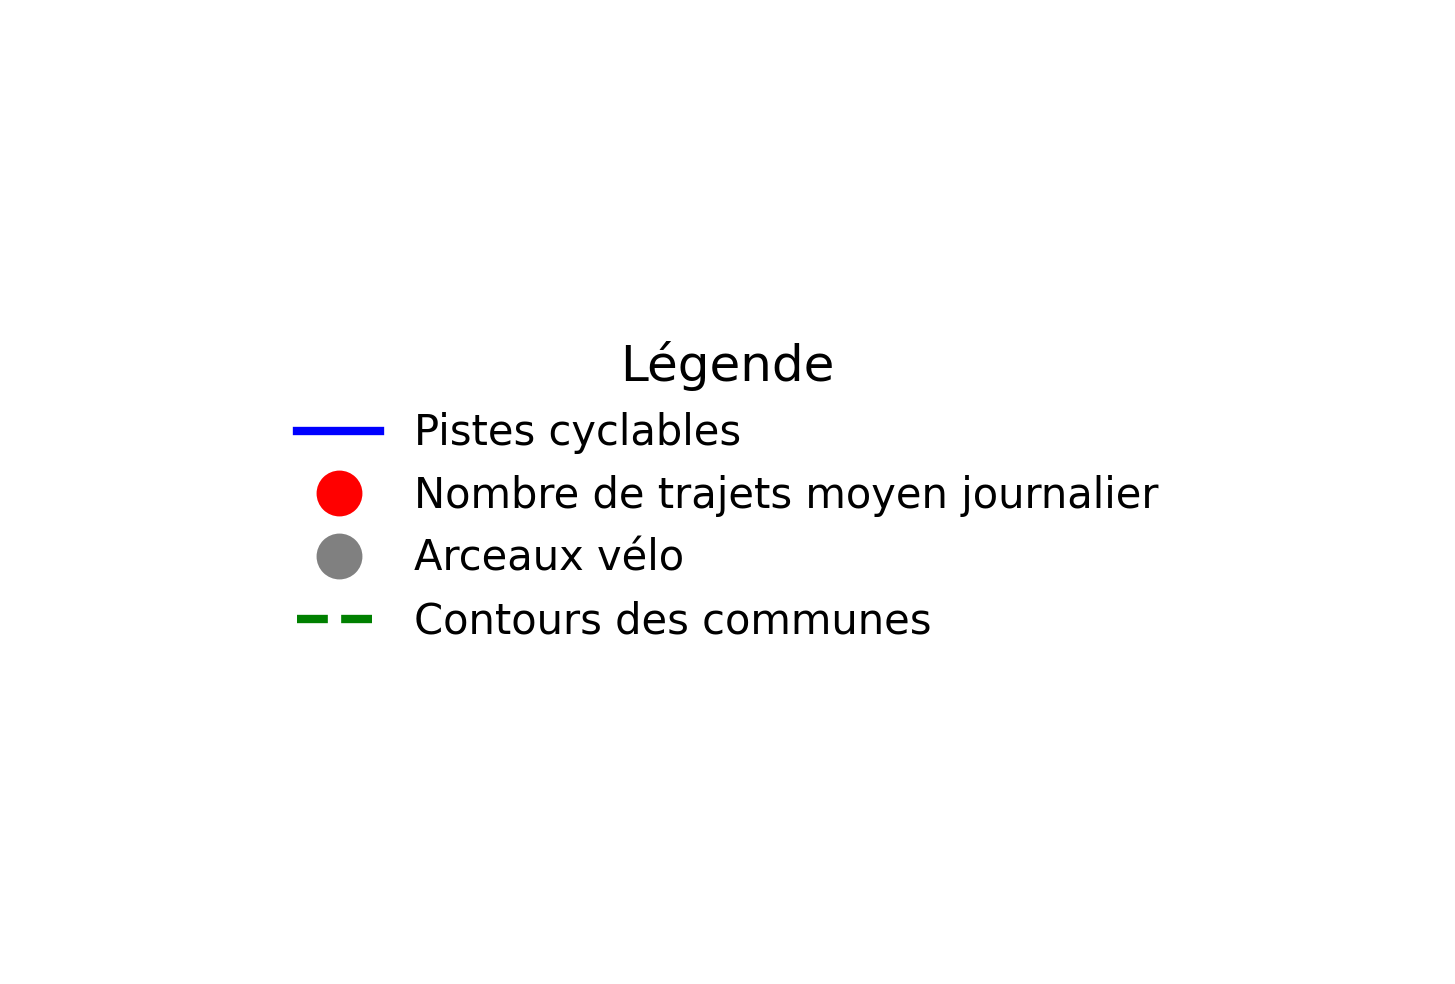
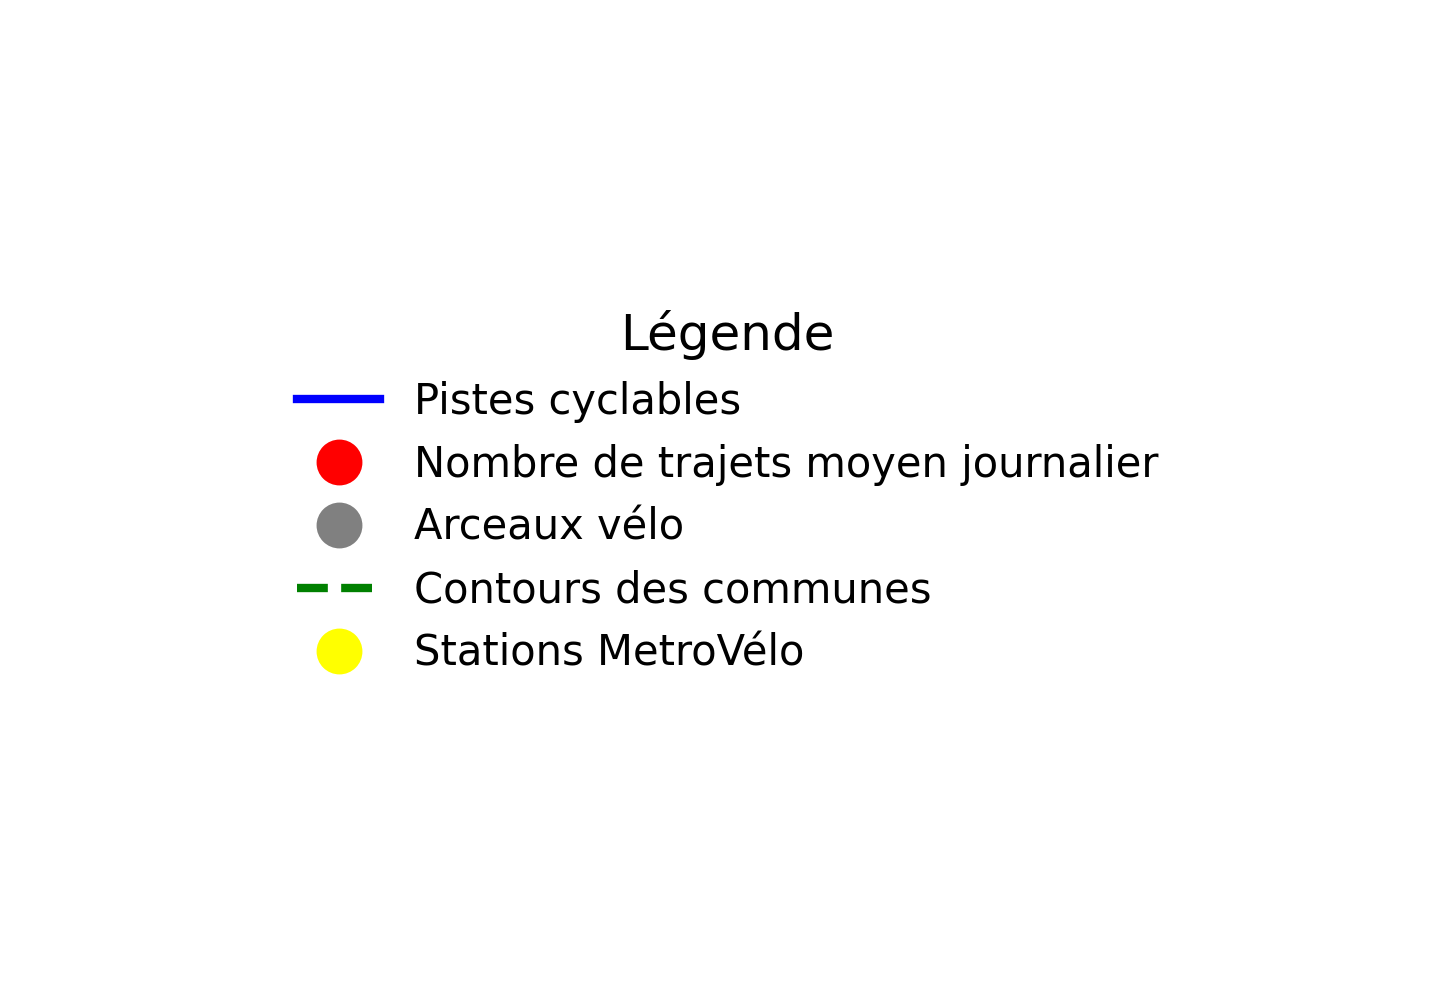
ajout legend page 2 plus épuration page 3

Changed region(s): [[0.1856, 0.3049, 0.8041, 0.7012]]

diff --git a/pages/03_Étude de cas temporelle sur l'INP.py b/pages/03_Étude de cas temporelle sur l'INP.py
@@ -1,5 +1,8 @@
 import streamlit as st 
-
+import seaborn as sns
+import matplotlib.pyplot as plt
+import pandas as pd
+import numpy as np
 
 ### Configuration de la page 
 st.set_page_config(page_title = "Étude de cas temporelle sur l'INP",layout="wide")
@@ -7,16 +10,13 @@ st.set_page_config(page_title = "Étude de cas temporelle sur l'INP",layout="wid
 st.title("Etude de cas temporelle sur l'INP")
 st.write("Cette page présente une analyse des données de l'INP, groupe d'écoles de l'Université Grenoble Alpes.")
     
-st.write("Les visualisations s'appuient sur une enquête intitulée 'Challenge mobilité' ")
+st.write("Les visualisations s'appuient sur une enquête intitulée **_'Challenge mobilité'_**  sur cinq années 2020 (149 répondants), 2021 (735), 2022 (247), 2023 (412), 2024 (424)")
 st.write("Cette enquête compare les trajets de personnes faisant partie de  l'INP se rendant sur leur lieu de travail/étude via différents modes de transport")
 
-st.markdown("**_Les visualisations utilisent les données du Challenge mobilité sur cinq années : 2020 (149 répondants), 2021 (735), 2022 (247), 2023 (412), 2024 (424)_**")
 
 
-st.header("Quelles sont les modes de transport utilisés par les usagers de l'INP (étudiants et personnels) ? (en finition)")
-import pandas as pd
-import matplotlib.pyplot as plt
-import numpy as np
+st.header("Modes de transport")
+
 
 # Charger les données
 df_merged = pd.read_excel("BaseDeDonnées/df_merged.xlsx")
@@ -26,14 +26,13 @@ colonnes_occ = colonnes_occ.to_list()
 colonnes_occ.append('Mode de Transport')
 df_occurence = df_merged[colonnes_occ]
 df_occurence = df_occurence.melt(id_vars='Mode de Transport',value_name='Occurrence (%)',var_name='Annee')
-
+df_occurence['Occurrence (%)'] = round(df_occurence['Occurrence (%)'])
 df_occurence['Mode de Transport'] = df_occurence['Mode de Transport'].replace('Trotinette ou vélo électrique','Trotinette ou vélo')
 
 df_occurence['Mode de Transport'] = df_occurence['Mode de Transport'].replace('Autre',np.nan)
 df_occurence['Mode de Transport'] = df_occurence['Mode de Transport'].replace('Moto / Scooter',np.nan)
 df_occurence['Mode de Transport'] = df_occurence['Mode de Transport'].replace('Voiture électrique',np.nan)
 df_occurence['Mode de Transport'] = df_occurence['Mode de Transport'].replace('Voiture hybride rechargeable',np.nan)
-
 
 
 df_occurence = df_occurence.dropna()
@@ -62,18 +61,31 @@ df_dist['Annee'] = df_dist['Annee'].str.replace('Proportion Distance Totale (%)'
 
 
 ### Graphiques 
-st.subheader("Pourcentage des modes de déplacement par années ",divider=True)
-st.line_chart(data=df_occurence,x='Annee',y='Occurrence (%)',color='Mode de Transport',width=900,height=500)
+st.subheader("Part représentative des modes de déplacement par années ",divider=True)
+st.line_chart(data=df_occurence,
+              x='Annee',
+              y='Occurrence (%)',
+              color='Mode de Transport',
+              x_label='Années',
+              y_label='Part représentative (%)',
+              width=900,
+              height=500)
 
 st.subheader("Distance totale par mode de transport (2020 - 2024)",divider=True)
-st.line_chart(data=df_dist,x='Annee',y='Proportion Distance (%)',color='Mode de Transport',width=900,height=500)
+st.line_chart(data=df_dist,
+              x='Annee',
+              y='Proportion Distance (%)',
+              color='Mode de Transport',
+              x_label='Années',
+              y_label='Part Transport Distance Totale (%)',
+              width=900,height=500)
 
 
 
 
 
 
-
+"""
 # Définition des années et des colonnes concernées
 years = ["2020", "2021", "2023", "2024"]
 year_columns = [f"Proportion Occurrences (%) {year}" for year in years]
@@ -111,7 +123,7 @@ ax.legend()
 
 # Afficher le graphique dans Streamlit
 st.pyplot(fig)
-
+""" 
 
 
 
@@ -212,8 +224,7 @@ df_2022 = pd.read_excel('BaseDeDonnées/INP2022Matrice.xlsx')
 df_2023 = pd.read_excel('BaseDeDonnées/INP2023Matrice.xlsx')
 df_2024 = pd.read_excel('BaseDeDonnées/INP2024Matrice.xlsx')
 
-import seaborn as sns
-import matplotlib.pyplot as plt
+
 
 # Dictionnaire des DataFrames par année
 data = {

diff --git a/pages/02_Visualisation d'infrastructures cyclistes sur le territoire Grenoblois.py b/pages/02_Visualisation d'infrastructures cyclistes sur le territoire Grenoblois.py
@@ -97,7 +97,7 @@ def load_station_metro_velo():
     df = pd.read_csv("BaseDeDonnées/Stations_MetroVelo/velo_0.csv")
     df['latitude'] = [element[0] for element in df['geo_point_2d'].str.split(',')]
     df['longitude'] = [element[1] for element in df['geo_point_2d'].str.split(',')]
-    df['rayon'] = [0.05 for element in df['longitude']]
+    df['rayon'] = [0.5 for element in df['longitude']]
     return df 
 
 # Charger les données
@@ -187,10 +187,11 @@ with col_map:
         for _, row in stations_metro_velos.iterrows():
             folium.CircleMarker(
                 location =[row['latitude'],row['longitude']],
-                rayon=row['rayon'],
+                rayon=0.05,
                 fill=True,
                 color='yellow',
-                fill_color='gray',
+                fill_color='yellow',
+                fill_opacity=0.6,
                 tooltip=f"Localisation :{row['adresse']}").add_to(m)
 
     # Afficher la carte
@@ -205,7 +206,8 @@ legend_elements = [
     Line2D([0], [0], color='blue', lw=2, linestyle='-', label='Pistes cyclables'),
     Line2D([0], [0], color='red', marker='o', markersize=10, linestyle='', label='Nombre de trajets moyen journalier'),
     Line2D([0], [0], color='gray', marker='o', markersize=10, linestyle='', label='Arceaux vélo'),
-    Line2D([0], [0], color='green', lw=2, linestyle='--', label='Contours des communes')
+    Line2D([0], [0], color='green', lw=2, linestyle='--', label='Contours des communes'),
+    Line2D([0],[0], color='yellow',marker='o',markersize=10,linestyle='',label='Stations MetroVélo')
 ]
 # Ajout de la légende
 ax.legend(
